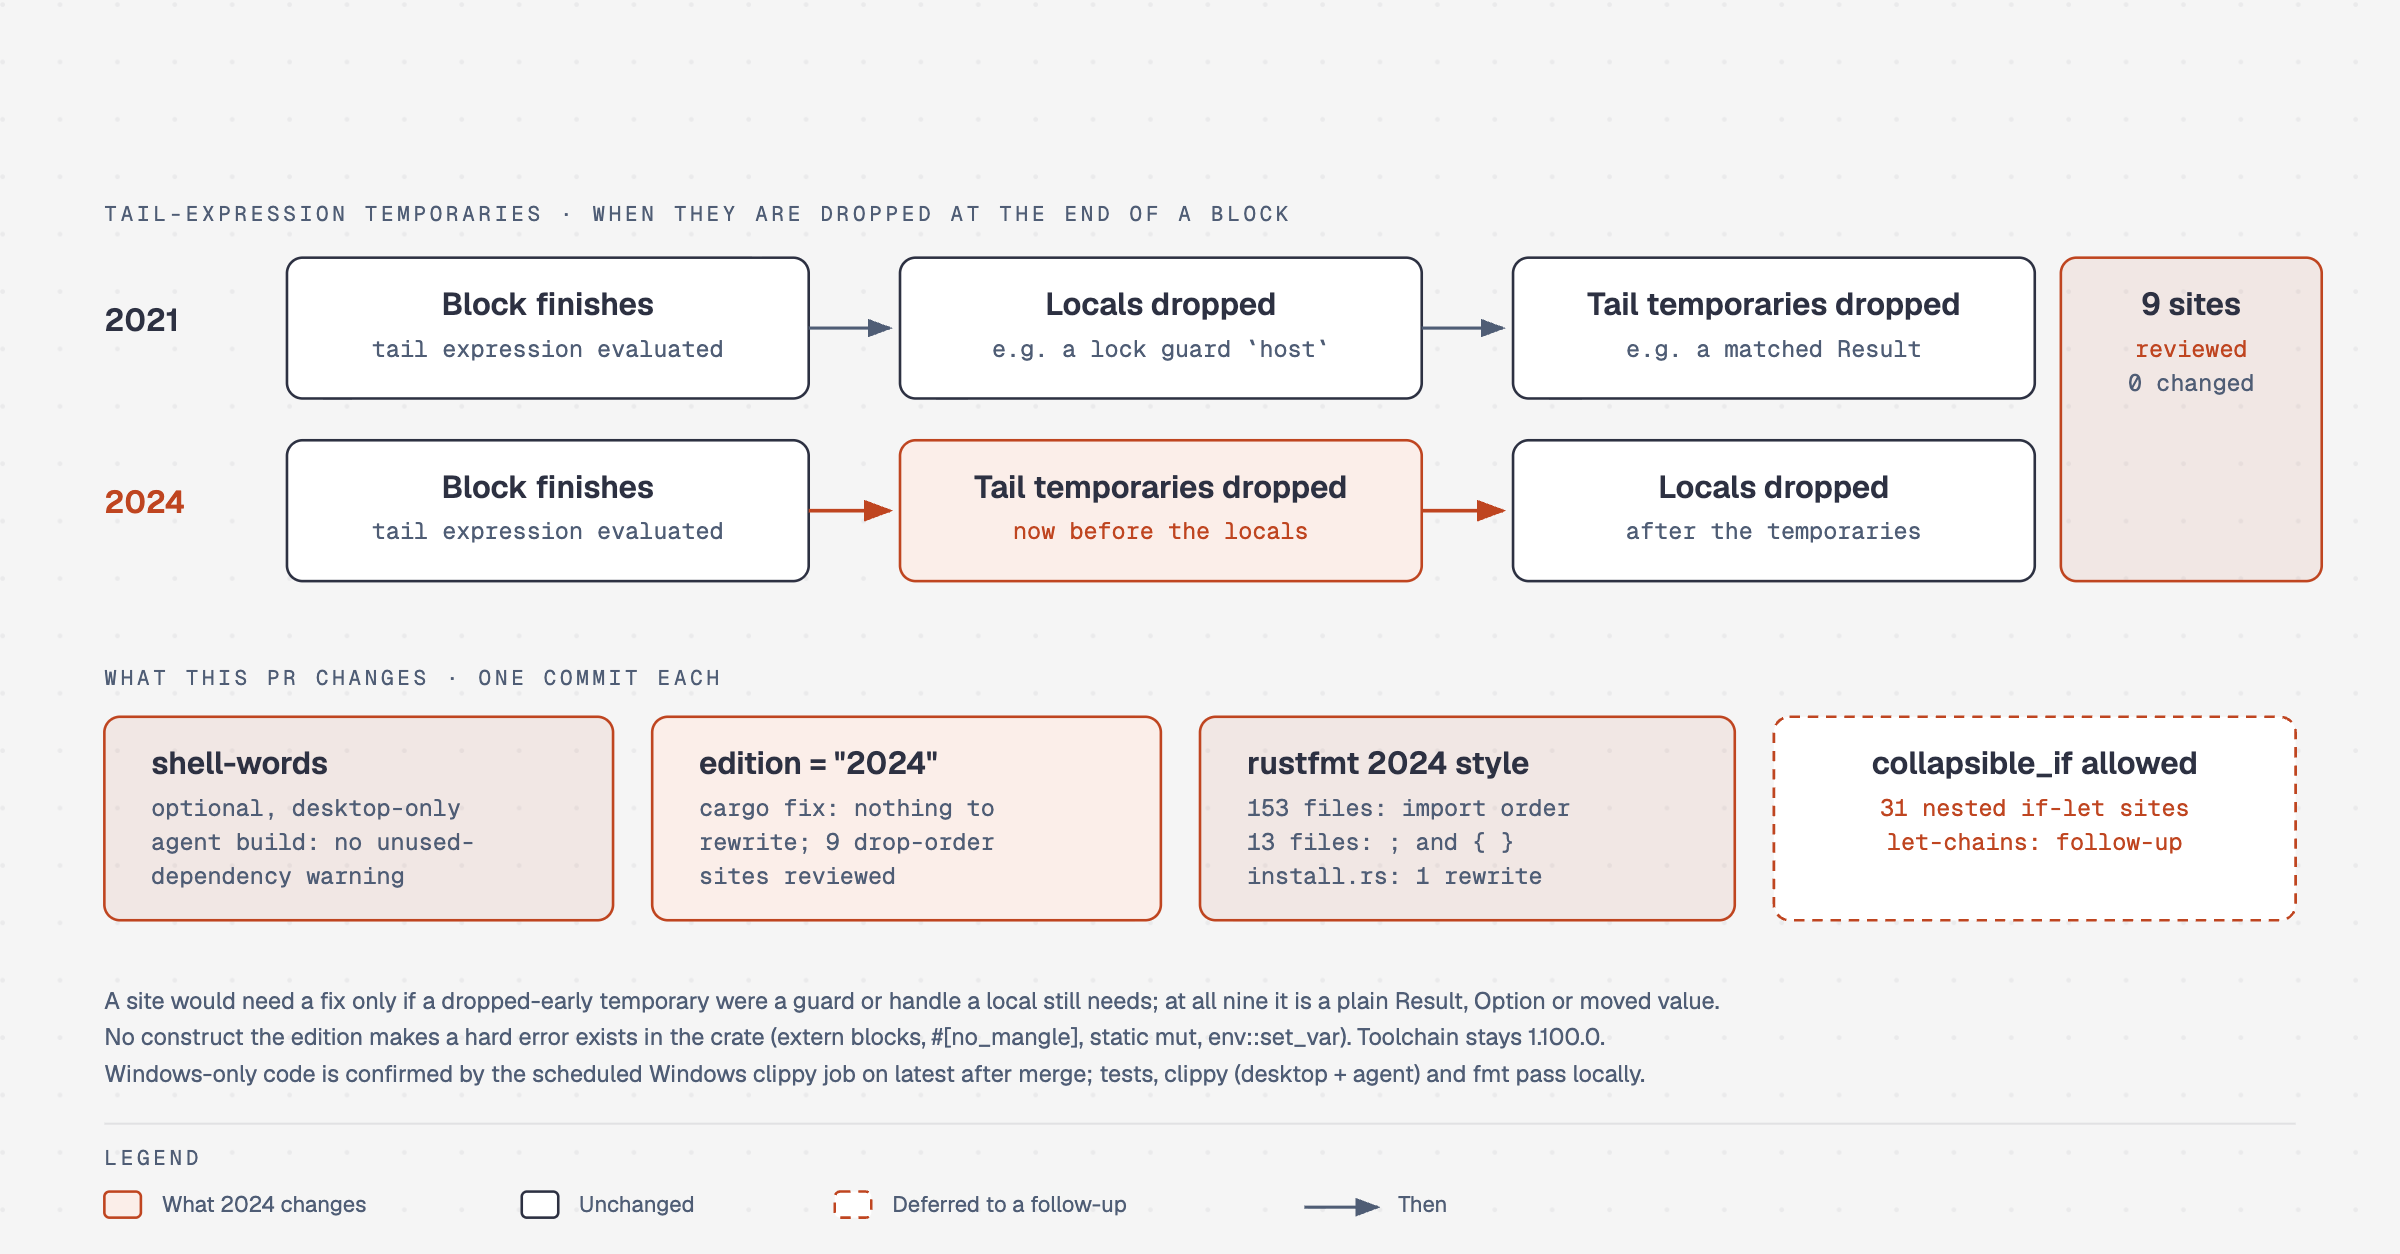
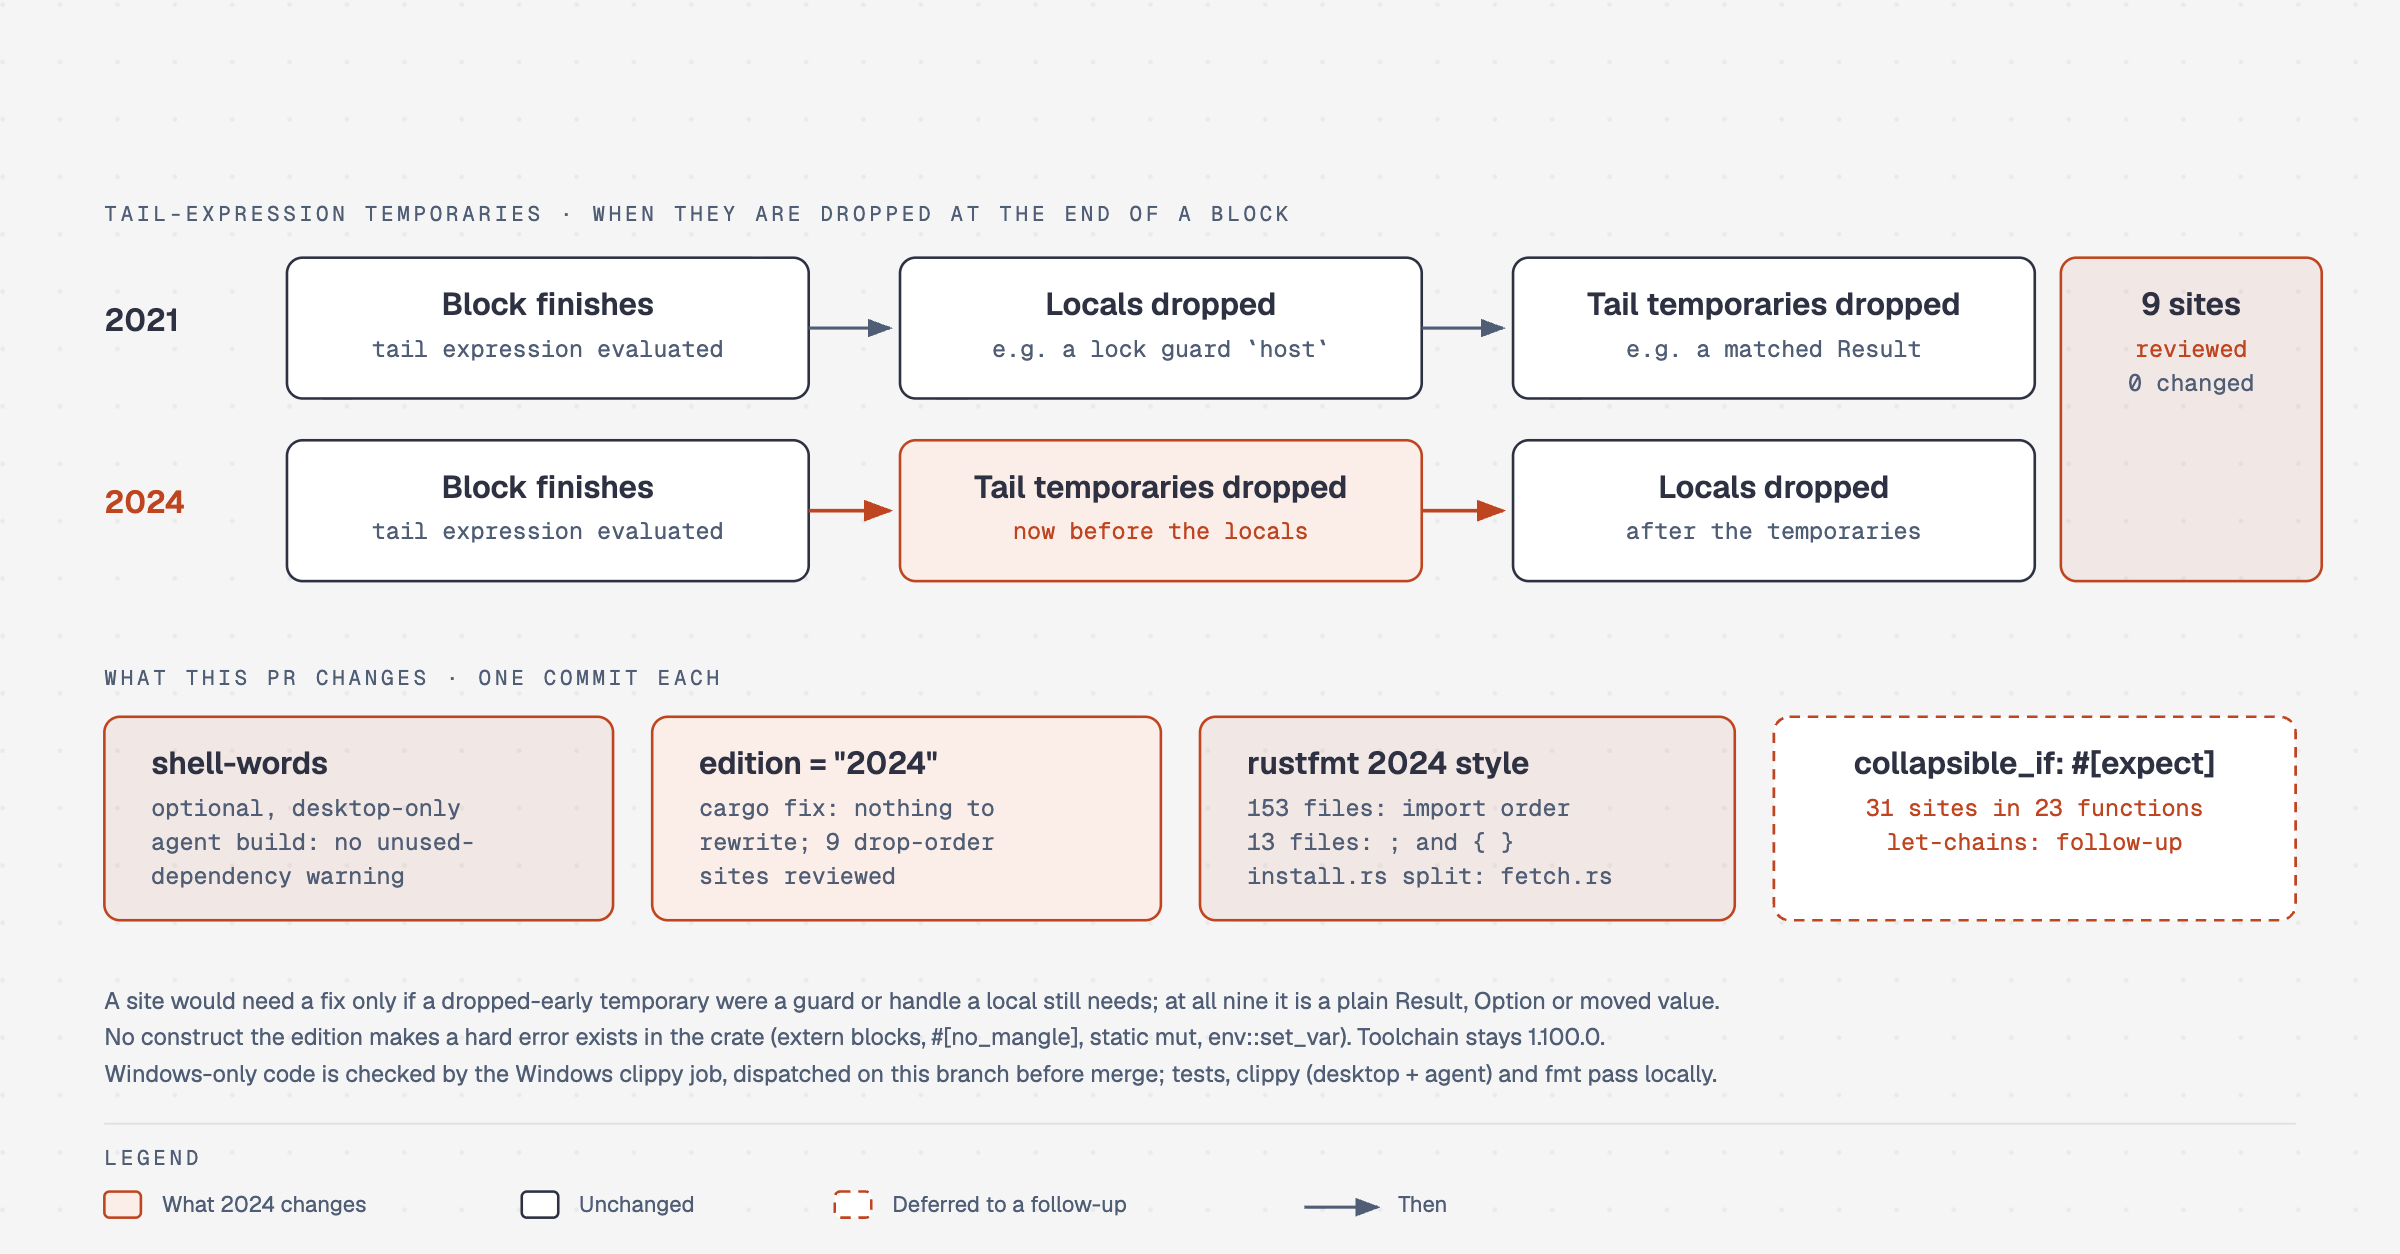
docs(diagrams): Update the edition diagram for the review fixes

Changed region(s): [[0.1562, 0.8397, 0.7188, 0.8708], [0.7812, 0.5909, 0.9375, 0.6531], [0.5938, 0.6842, 0.6562, 0.7153]]

diff --git a/docs/diagrams/rust-edition-2024/edition-2024-changes.html b/docs/diagrams/rust-edition-2024/edition-2024-changes.html
@@ -61,7 +61,7 @@
     <div class="diagram-container">
       <svg viewBox="0 0 920 480" xmlns="http://www.w3.org/2000/svg" role="img" aria-labelledby="edition-2024-changes-title edition-2024-changes-desc">
         <title id="edition-2024-changes-title">What the 2024 edition changes here</title>
-        <desc id="edition-2024-changes-desc">Under edition 2021 the temporaries of a block's tail expression are dropped after the block's locals; under 2024 they are dropped before them. All nine sites where the compiler flags this were reviewed and none needed a change. The PR has one commit each for making shell-words desktop-only, switching to edition 2024, applying the 2024 rustfmt style (153 files reorder imports, 13 add semicolons or braces, one line rewritten in install.rs), and allowing clippy's collapsible_if, whose let-chain conversion at 31 sites is a follow-up.</desc>
+        <desc id="edition-2024-changes-desc">Under edition 2021 the temporaries of a block's tail expression are dropped after the block's locals; under 2024 they are dropped before them. All nine sites where the compiler flags this were reviewed and none needed a change. The PR has one commit each for making shell-words desktop-only, switching to edition 2024, applying the 2024 rustfmt style (153 files reorder imports, 13 add semicolons or braces, one line split out of install.rs), and #[expect] on the 23 functions where clippy's collapsible_if asks for let-chains, whose conversion is a follow-up.</desc>
         <defs>
           <pattern id="dots" width="22" height="22" patternUnits="userSpaceOnUse">
             <circle cx="1" cy="1" r="0.9" fill="rgba(45,49,66,0.10)"/>
@@ -116,14 +116,14 @@
         <text x="478" y="296" fill="#2d3142" font-size="12" font-weight="600" font-family="'Geist', sans-serif">rustfmt 2024 style</text>
         <text x="478" y="312" fill="#4f5d75" font-size="9" font-family="'Geist Mono', monospace">153 files: import order</text>
         <text x="478" y="325" fill="#4f5d75" font-size="9" font-family="'Geist Mono', monospace">13 files: ; and { }</text>
-        <text x="478" y="338" fill="#4f5d75" font-size="9" font-family="'Geist Mono', monospace">install.rs: 1 rewrite</text>
+        <text x="478" y="338" fill="#4f5d75" font-size="9" font-family="'Geist Mono', monospace">install.rs split: fetch.rs</text>
         <rect x="680" y="274" width="200" height="78" rx="6" fill="#ffffff" stroke="#bf4520" stroke-width="1" stroke-dasharray="4 3"/>
-        <text x="780" y="296" fill="#2d3142" font-size="12" font-weight="600" font-family="'Geist', sans-serif" text-anchor="middle">collapsible_if allowed</text>
-        <text x="780" y="312" fill="#bf4520" font-size="9" font-family="'Geist Mono', monospace" text-anchor="middle">31 nested if-let sites</text>
+        <text x="780" y="296" fill="#2d3142" font-size="12" font-weight="600" font-family="'Geist', sans-serif" text-anchor="middle">collapsible_if: #[expect]</text>
+        <text x="780" y="312" fill="#bf4520" font-size="9" font-family="'Geist Mono', monospace" text-anchor="middle">31 sites in 23 functions</text>
         <text x="780" y="325" fill="#bf4520" font-size="9" font-family="'Geist Mono', monospace" text-anchor="middle">let-chains: follow-up</text>
         <text x="40" y="386" fill="#4f5d75" font-size="9" font-family="'Geist', sans-serif">A site would need a fix only if a dropped-early temporary were a guard or handle a local still needs; at all nine it is a plain Result, Option or moved value.</text>
         <text x="40" y="400" fill="#4f5d75" font-size="9" font-family="'Geist', sans-serif">No construct the edition makes a hard error exists in the crate (extern blocks, #[no_mangle], static mut, env::set_var). Toolchain stays 1.100.0.</text>
-        <text x="40" y="414" fill="#4f5d75" font-size="9" font-family="'Geist', sans-serif">Windows-only code is confirmed by the scheduled Windows clippy job on latest after merge; tests, clippy (desktop + agent) and fmt pass locally.</text>
+        <text x="40" y="414" fill="#4f5d75" font-size="9" font-family="'Geist', sans-serif">Windows-only code is checked by the Windows clippy job, dispatched on this branch before merge; tests, clippy (desktop + agent) and fmt pass locally.</text>
         <line x1="40" y1="430" x2="880" y2="430" stroke="rgba(45,49,66,0.10)" stroke-width="0.8"/>
         <text x="40" y="446" fill="#4f5d75" font-size="8" font-family="'Geist Mono', monospace" letter-spacing="0.18em">LEGEND</text>
         <rect x="40" y="456" width="14" height="10" rx="2" fill="#fbeee9" stroke="#bf4520" stroke-width="1"/>
